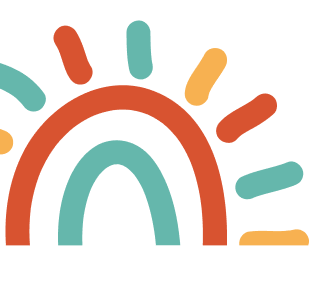
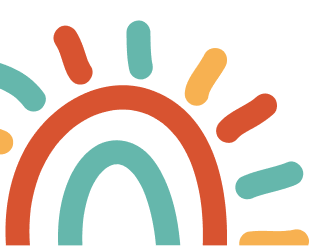
Metodology page is responsive

diff --git a/src/Metodologia/styles.js b/src/Metodologia/styles.js
@@ -195,7 +195,23 @@ export const Button = styled.button `
   }
 `
 export const SunIcon = styled.div `
-  /* background-image: url(${sunIcon});
+  background-image: url(${sunIcon});
+  background-repeat: no-repeat;
+  background-size: contain;
+  width: 235px;
+  height: 175px;
+  align-self: baseline;
+  z-index: 1;
+  position: absolute;
+  bottom: -119px;
+  left: 0;
+
+  @media ${device.mobileM} {
+    /* bottom: -144px; */
+  }
+
+  @media ${device.tablet} { 
+      /* background-image: url(${sunIcon});
   background-repeat: no-repeat;
   background-size: contain;
   width: 397px;
@@ -205,8 +221,5 @@ export const SunIcon = styled.div `
   position: absolute;
   bottom: -43px;
   left: 0; */
-
-  @media ${device.tablet} { 
-    
   }
 `;
